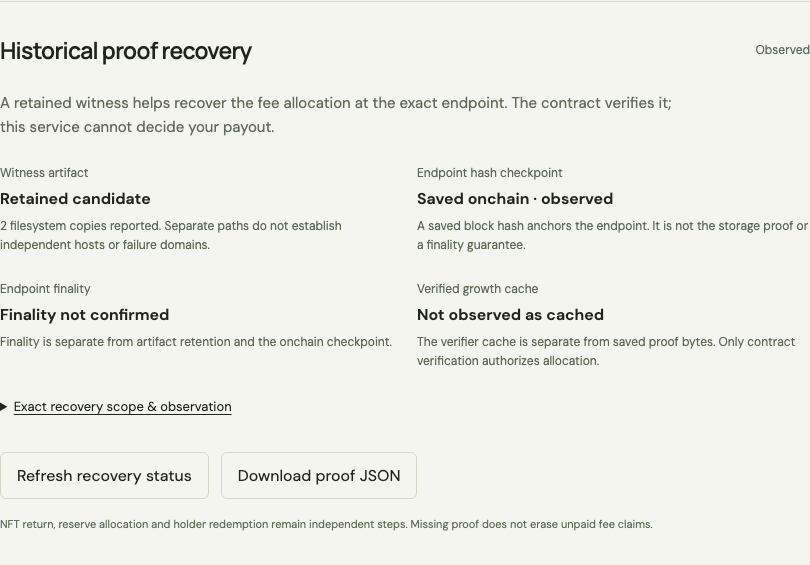
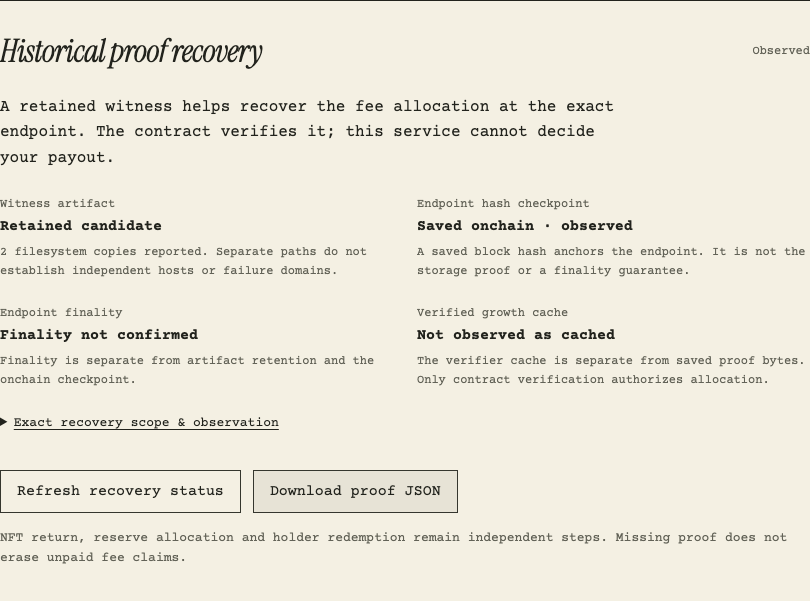
fix(web): retain sale receipts and verify usufruct workflows
Preserve confirmation receipts across cabinet navigation, migrate existing financial regressions, and record desktop/mobile review and both real-chain recovery variants.

diff --git a/apps/web/tests/flows.spec.ts b/apps/web/tests/flows.spec.ts
@@ -30,7 +30,7 @@ test("disconnected market explains original Q and exact earning endpoint; filter
     page.getByText("Deterministic fixtures", { exact: true }),
   ).toBeVisible();
   await expect(
-    page.getByText("Block 11,972,000", { exact: true }),
+    page.getByText("block 11,972,000", { exact: true }),
   ).toBeVisible();
   await expect(
     page.getByRole("link", { name: "Open WETH / USDC NFT 1482" }),
@@ -64,13 +64,13 @@ test("fractional purchase shows exact USDC review and carries unpaid period inco
   await expect(page.getByRole("status")).toContainText(
     "No transaction was broadcast",
   );
-  await page.getByRole("link", { name: "Your positions", exact: true }).click();
+  await page.getByRole("link", { name: "My cabinet", exact: true }).click();
   await expect(page.locator(".holding-row").first()).toContainText("250.1");
 });
 test("NFT approval does not activate; exact funded acceptance preserves retained rights", async ({
   page,
 }) => {
-  await page.goto("/#positions");
+  await page.goto("/#pin");
   await wallet(page);
   await page
     .getByRole("button", { name: "1. Approve this NFT", exact: true })
@@ -89,6 +89,8 @@ test("NFT approval does not activate; exact funded acceptance preserves retained
     "You cannot change bands",
   );
   await confirm(page, "Accept exact funded terms");
+  await expect(page).toHaveURL(/#positions$/);
+  await expect(page.getByRole("status")).toContainText("No transaction was broadcast");
   await expect(page.locator(".position-entry").first()).toContainText(
     "Held in escrow",
   );
@@ -97,7 +99,7 @@ test("NFT approval does not activate; exact funded acceptance preserves retained
 test("multiple funded offers remain individually recoverable and rejected cancellation preserves funds", async ({
   page,
 }) => {
-  await page.goto("/#positions");
+  await page.goto("/#pin");
   await wallet(page);
   await page
     .getByRole("button", { name: "Fund an offer", exact: true })
@@ -109,6 +111,7 @@ test("multiple funded offers remain individually recoverable and rejected cancel
       .click();
     await confirm(page, "Fund offer");
   }
+  await page.getByRole("link", { name: "My cabinet", exact: true }).click();
   await expect(page.locator(".funded-offer-row")).toHaveCount(2);
   await expect(
     page.getByRole("region", { name: "Your funded offers" }),
@@ -136,9 +139,11 @@ test("multiple funded offers remain individually recoverable and rejected cancel
   await expect(page.locator(".funded-offer-row")).toContainText(
     "$101.000000 USDC",
   );
+  await page.getByRole("link", { name: "Pin a tree", exact: true }).click();
   await expect(
     page.locator(".position-entry").first().locator(".funded-offer"),
   ).toContainText("$101.00");
+  await page.getByRole("link", { name: "My cabinet", exact: true }).click();
   await page.getByRole("button", { name: "Review cancellation" }).click();
   await confirm(page, "Cancel fixture offer");
   await expect(page.locator(".funded-offer-row")).toHaveCount(0);
@@ -171,7 +176,7 @@ test("late capture releases original NFT before allocation; claims redeem afterw
   await page
     .locator(".position-entry")
     .last()
-    .getByRole("link", { name: "View fee strip" })
+    .getByRole("link", { name: "View fee claim" })
     .click();
   await page
     .getByRole("button", { name: "Preview fixture allocation" })
@@ -210,7 +215,7 @@ test("rejected signature and transaction revert preserve balances and offer stat
     .click();
   await expect(page.getByRole("alert")).toContainText("Transaction reverted");
   await page.getByRole("button", { name: "Close transaction review" }).click();
-  await page.getByRole("link", { name: "Your positions", exact: true }).click();
+  await page.getByRole("link", { name: "My cabinet", exact: true }).click();
   await expect(page.locator(".holding-row").first()).toContainText("250");
 });
 test("wrong network has an explicit recovery action", async ({ page }) => {
@@ -256,7 +261,7 @@ for (const [state, message] of [
 test("indexer lag is visible and an empty position state explains eligibility", async ({
   page,
 }) => {
-  await page.goto("/#positions");
+  await page.goto("/#pin");
   await wallet(page);
   await condition(page, "indexer-lag");
   await expect(

diff --git a/apps/web/chain-tests/lifecycle.spec.ts b/apps/web/chain-tests/lifecycle.spec.ts
@@ -32,6 +32,7 @@ let deployment: Deployment;
 let recoveryDirectory: string, recoveryStore: RetentionStore, recoveryWorker: RetentionWorker, recoveryAPI: ReturnType<typeof recoveryServer>;
 const receipts: { action: string; hash: Hex }[] = [];
 const cacheOnly=process.env.USE_VERIFIED_GROWTH_CACHE === "true";
+const recoveryPort=Number(process.env.FEESTRIP_TEST_RECOVERY_PORT??8788);
 const rpcURL = process.env.LOCAL_RPC_URL ?? "http://127.0.0.1:8545";
 if (!["localhost", "127.0.0.1", "[::1]"].includes(new URL(rpcURL).hostname))
   throw new Error("Chain browser suite requires a loopback RPC.");
@@ -111,7 +112,7 @@ test.beforeAll(async () => {
   recoveryStore=new RetentionStore(resolve(recoveryDirectory,'keeper.sqlite'),{artifactRoots:[resolve(recoveryDirectory,'a'),resolve(recoveryDirectory,'b')]});
   recoveryWorker=new RetentionWorker(await localRetentionConfig(deployment,client),recoveryStore);
   recoveryAPI=recoveryServer({store:recoveryStore,scope:recoveryWorker.scope});
-  await new Promise<void>((resolve,reject)=>{recoveryAPI.once('error',reject);recoveryAPI.listen(8788,'127.0.0.1',resolve);});
+  await new Promise<void>((resolve,reject)=>{recoveryAPI.once('error',reject);recoveryAPI.listen(recoveryPort,'127.0.0.1',resolve);});
 });
 test.afterAll(async()=>{
   if(recoveryAPI?.listening)await new Promise<void>(resolve=>recoveryAPI.close(resolve));
@@ -123,7 +124,7 @@ test("real browser funding, exact NFT sale, Aqua maker publication, trade, late 
   page,
 }, testInfo) => {
   const { seller, buyer, holder } = deployment.actors!;
-  await login(page, "buyer");
+  await login(page, "buyer", "pin");
   await expect(page.locator(".position-entry")).toContainText(
     "Offer target · other wallet",
   );
@@ -142,7 +143,7 @@ test("real browser funding, exact NFT sale, Aqua maker publication, trade, late 
   expect(await balance(deployment.usdc, buyer)).toBe(
     buyerCashBefore - 101000000n,
   );
-  await login(page, "seller");
+  await login(page, "seller", "pin");
   await expect(page.locator(".funded-offer-row")).toHaveCount(0);
   await page
     .getByRole("button", { name: "1. Approve this NFT", exact: true })
@@ -223,7 +224,7 @@ test("real browser funding, exact NFT sale, Aqua maker publication, trade, late 
   expect(retained.state).toBe("retained");expect(retained.copies).toBe(2);
   // The browser must use the real recovery service; the legacy static fallback is absent.
   unlinkSync(resolve(repo,"apps/web/public/witness-1.json"));
-  const recoveredResponse=await fetch(`http://127.0.0.1:8788/api/recovery/artifact?seriesId=1&digest=${retained.artifactDigest}`);
+  const recoveredResponse=await fetch(`http://127.0.0.1:${recoveryPort}/api/recovery/artifact?seriesId=1&digest=${retained.artifactDigest}`);
   expect(recoveredResponse.ok).toBe(true);expect(digest(await recoveredResponse.text())).toBe(retained.artifactDigest);
   await page
     .getByRole("button", { name: "Refresh chain state", exact: true })
@@ -315,7 +316,7 @@ test("real browser funding, exact NFT sale, Aqua maker publication, trade, late 
     paid += payout;
     expect(await balance(activated.claim, address)).toBe(0n);
   }
-  await page.getByRole("link", { name: "Your positions", exact: true }).click();
+  await page.getByRole("link", { name: "My cabinet", exact: true }).click();
   const residualBefore = await balance(deployment.usdc, seller);
   await page
     .getByRole("button", { name: "Withdraw residual fees", exact: true })

diff --git a/apps/web/tests/orchard.spec.ts b/apps/web/tests/orchard.spec.ts
@@ -1,0 +1,33 @@
+import { test, expect } from "@playwright/test";
+import { fruitMarkState } from "../src/components/Orchard";
+import { initialFixture } from "../src/fixtureAdapter";
+
+test("fractional inventory remains visible below one basis point of original Q", () => {
+  const Q = BigInt(initialFixture().markets[0].originalSupply);
+  for (const quantity of [500000000000000000n, 1n]) {
+    expect(fruitMarkState(quantity, Q, 0)).toBe("partial");
+    for (let index = 1; index < 10; index++)
+      expect(fruitMarkState(quantity, Q, index)).toBe("empty");
+  }
+  expect(fruitMarkState(0n, Q, 0)).toBe("empty");
+  expect(fruitMarkState(Q / 10n, Q, 0)).toBe("full");
+  expect(fruitMarkState(Q / 10n, Q, 1)).toBe("empty");
+});
+
+test("mobile orchard navigation reaches seller and holder tasks with legible type", async ({ page }) => {
+  await page.setViewportSize({ width: 390, height: 844 });
+  await page.goto("/");
+  await expect(page).toHaveTitle(/usufruct/);
+  for (const [link, heading] of [
+    ["Orchard", "The orchard"],
+    ["Pin a tree", "Pin a tree"],
+    ["My cabinet", "My cabinet"],
+  ]) {
+    await page.getByRole("link", { name: link, exact: true }).click();
+    await expect(page.getByRole("heading", { name: heading, exact: true, level: 1 })).toBeVisible();
+    expect(await page.evaluate(() => document.documentElement.scrollWidth <= window.innerWidth)).toBe(true);
+  }
+  await page.evaluate(() => document.fonts.ready);
+  expect(await page.evaluate(() => document.fonts.check('italic 64px "Instrument Serif"'))).toBe(true);
+  expect(await page.evaluate(() => document.fonts.check('16px "Courier Prime"'))).toBe(true);
+});

diff --git a/apps/web/playwright.chain.config.ts b/apps/web/playwright.chain.config.ts
@@ -1,4 +1,10 @@
 import { defineConfig } from "@playwright/test";
+const webPort = Number(process.env.FEESTRIP_TEST_WEB_PORT ?? 4175);
+const recoveryPort = Number(process.env.FEESTRIP_TEST_RECOVERY_PORT ?? 8788);
+for (const port of [webPort, recoveryPort]) {
+  if (!Number.isInteger(port) || port < 1024 || port > 65535)
+    throw new Error("Browser test ports must be integers between 1024 and 65535.");
+}
 export default defineConfig({
   testDir: "./chain-tests",
   outputDir: "./test-results/chain",
@@ -9,7 +15,7 @@ export default defineConfig({
   timeout: 180000,
   reporter: [["list"]],
   use: {
-    baseURL: "http://127.0.0.1:4175",
+    baseURL: `http://127.0.0.1:${webPort}`,
     browserName: "chromium",
     viewport: { width: 1440, height: 1100 },
     trace: "retain-on-failure",
@@ -17,9 +23,12 @@ export default defineConfig({
   },
   webServer: {
     command:
-      "node ../../node_modules/vite/bin/vite.js --host 127.0.0.1 --port 4175",
-    url: "http://127.0.0.1:4175",
+      `node ../../node_modules/vite/bin/vite.js --host 127.0.0.1 --port ${webPort} --strictPort`,
+    url: `http://127.0.0.1:${webPort}`,
     reuseExistingServer: !process.env.CI,
-    env: { VITE_DATA_MODE: "local", VITE_ENABLE_TEST_WALLET: "true" },
+    env: {
+      VITE_DATA_MODE: "local", VITE_ENABLE_TEST_WALLET: "true",
+      FEESTRIP_RECOVERY_ORIGIN: `http://127.0.0.1:${recoveryPort}`,
+    },
   },
 });

diff --git a/apps/web/tests/entitlement.spec.ts b/apps/web/tests/entitlement.spec.ts
@@ -59,7 +59,7 @@ test("matured rights survive capture and NFT return; allocation uses original Q 
   });
   await expect(receipt).toContainText("Period ended · capture pending");
   await expect(receipt).toContainText("your unpaid claim remains valid");
-  await page.getByRole("link", { name: "Your positions", exact: true }).click();
+  await page.getByRole("link", { name: "My cabinet", exact: true }).click();
   await page
     .getByRole("button", { name: "Capture actual fees", exact: true })
     .click();
@@ -71,7 +71,7 @@ test("matured rights survive capture and NFT return; allocation uses original Q 
   await page
     .locator(".holding-row")
     .filter({ hasText: "NFT #1484" })
-    .getByRole("link", { name: "View claim" })
+    .getByRole("link", { name: "Read claim & recovery" })
     .click();
   await expect(receipt).toContainText("Proof allocation pending");
   await expect(receipt).toContainText(

diff --git a/apps/web/tests/quotes.spec.ts b/apps/web/tests/quotes.spec.ts
@@ -81,11 +81,12 @@ test("unavailable bid has no enabled sell action or promised proceeds", async ({
     .getByRole("button", { name: "Use fixture wallet", exact: true })
     .first()
     .click();
-  const sale = page.locator(".sell-to-bid").first();
+  const sale = page.locator(".no-bid-note").first();
   await expect(sale).toContainText("No executable bid");
+  await expect(sale).toContainText("Resale liquidity is not guaranteed");
   await expect(
-    sale.getByRole("button", { name: "Review claim sale" }),
-  ).toBeDisabled();
+    page.getByRole("button", { name: "Review claim sale" }),
+  ).toHaveCount(0);
 });
 test("integer capacity equals exhaustive exact-input execution at small rounding boundaries", () => {
   for (let claims = 1n; claims <= 17n; claims++)

diff --git a/apps/web/src/App.tsx b/apps/web/src/App.tsx
@@ -322,7 +322,13 @@ export function App({ adapter }: { adapter: FeeStripAdapter }) {
       const result = await adapter.execute(review.action);
       await refresh();
       setReview(null);
-      if (review.action.type === "acceptOffer") location.hash = "positions";
+      if (review.action.type === "acceptOffer") {
+        // Keep the confirmed receipt visible when opening the new holding.
+        // A hashchange would clear it as part of ordinary navigation.
+        history.pushState(null, "", "#positions");
+        setRoute("positions");
+        window.scrollTo(0, 0);
+      }
       setMessage(
         result.transactionHash
           ? `${result.description} Transaction: ${result.transactionHash}`

diff --git a/apps/web/tests/recovery.spec.ts b/apps/web/tests/recovery.spec.ts
@@ -149,7 +149,7 @@ test("unavailable recovery never promises proof or a download; fixture receipt h
   await page.getByText("Receipt source & download", { exact: true }).click();
   await expect(
     page.getByText(
-      "FeeStrip contract: Simulated fixture · no deployed contract",
+      "Escrow contract: Simulated fixture · no deployed contract",
     ),
   ).toBeVisible();
   await mount(page, { error: "RECOVERY_UNAVAILABLE" }, json, 503);

diff --git a/apps/web/vite.config.ts b/apps/web/vite.config.ts
@@ -4,6 +4,6 @@ export default defineConfig({
   plugins: [react()],
   server: {
     port: 4174, host: "127.0.0.1", fs: { allow: ["../.."] },
-    proxy: { "/api/analysis": "http://127.0.0.1:8787", "/api/recovery": "http://127.0.0.1:8788" },
+    proxy: { "/api/analysis": "http://127.0.0.1:8787", "/api/recovery": process.env.FEESTRIP_RECOVERY_ORIGIN ?? "http://127.0.0.1:8788" },
   },
 });

diff --git a/apps/web/src/styles.css b/apps/web/src/styles.css
@@ -1,4 +1,3 @@
-@import "./fonts.css";
 :root {
   --ink: #22231d;
   --muted: #626257;

diff --git a/docs/development.md b/docs/development.md
@@ -34,7 +34,7 @@ Install the independent witness validator first (see [retention setup](../packag
 
 For the independent transaction-level regression, start with `pnpm local:reset` and run `pnpm test:chain`. It compares settlement against a native collection branch at the identical N snapshot, then checks actual payouts, residual assets and dust. It also runs the retention worker at N, restarts without replacement proof access, repairs a corrupted copy, and revalidates the API witness before Solidity settlement. It consumes the seeded offer, so reset before another run. Run `pnpm test:browser:chain` for the saved browser lifecycle; it resets the dedicated node itself. Its receipts and screenshots are distinct from fixture tests.
 
-To isolate browser transactions from a running8545 development node, start another Anvil on8546 and run `LOCAL_RPC_URL=http://127.0.0.1:8546 pnpm test:browser:chain`. It still writes this checkout's generated deployment/witness files; use a separate checkout if another app needs those files unchanged. Browser artifacts are separated under `apps/web/test-results/fixtures` and `apps/web/test-results/chain`. The transaction suite now also cancels the buyer's expired, unaccepted seed offer and verifies its exact refund without changing settled reserves. Buyers can do this through **Your positions → Your funded offers → Review cancellation**; expiry alone does not refund capital.
+To isolate browser transactions from a running8545 development node, start another Anvil on8546 and run `LOCAL_RPC_URL=http://127.0.0.1:8546 pnpm test:browser:chain`. It still writes this checkout's generated deployment/witness files; use a separate checkout if another app needs those files unchanged. Browser artifacts are separated under `apps/web/test-results/fixtures` and `apps/web/test-results/chain`. The transaction suite now also cancels the buyer's expired, unaccepted seed offer and verifies its exact refund without changing settled reserves. Buyers can do this through **My cabinet → Your funded offers → Review cancellation**; expiry alone does not refund capital.
 
 ## Independent checks
 
@@ -75,4 +75,8 @@ The private retention helper pins Sepolia genesis to [go-ethereum's chain config
 
 After seeding, run `pnpm local:retention-config`, then `RETENTION_CONFIG="$PWD/.scratch/retention/local/local.generated.json" pnpm dev:recovery` in another terminal with `FEESTRIP_PROOF_PYTHON` set. Start before N. The read-only worker discovers active series and retains exact endpoint proofs; it never mines, checkpoints or settles for you. Vite proxies `/api/recovery` to its loopback8788 API. Restart the same command to reuse the retained database and two filesystem copies. See [retention operations and limitations](../packages/settlement/README.md).
 
-The saved browser lifecycle runs a real recovery API on dedicated loopback8788, deletes the static witness fallback, downloads the retained artifact through the app and settles from that API. Its Python validator dependency is required. Run `USE_VERIFIED_GROWTH_CACHE=true pnpm test:browser:chain` for the separate cache-recovery variant: it authenticates growth onchain, removes every retained proof copy and verifies allocation through the app from the exact cached tuple. Each variant resets its dedicated local chain. Keep8788 free for this test server.
+The saved browser lifecycle runs a real recovery API on dedicated loopback8788, deletes the static witness fallback, downloads the retained artifact through the app and settles from that API. Its Python validator dependency is required. Run `USE_VERIFIED_GROWTH_CACHE=true pnpm test:browser:chain` for the separate cache-recovery variant: it authenticates growth onchain, removes every retained proof copy and verifies allocation through the app from the exact cached tuple. Each variant resets its dedicated local chain. By default this test server uses8788. To leave a public preview and retention worker running, set `FEESTRIP_TEST_WEB_PORT=4193 FEESTRIP_TEST_RECOVERY_PORT=8793` alongside a dedicated `LOCAL_RPC_URL`; the test browser and Vite recovery proxy use those isolated ports.
+
+## usufruct design preview
+
+The application has three views: **Orchard** for discovery, **Pin a tree** for funded offers and NFT activation, and **My cabinet** for claims, NFT recovery and offer refunds. The fixed-window economic requirements remain unchanged. `pnpm dev` opens the explicitly labeled fixture preview; its sample values and transactions are simulated. The public testnet build requires `VITE_DATA_MODE=testnet pnpm build` and the correct deployment manifest. See [DESIGN.md](../DESIGN.md) for the identity, [implementation review](design/usufruct-implementation.md) for the interface, and `/brand/index.html` on either preview for the typography, palette and downloadable SVG marks.

diff --git a/docs/STATUS.md b/docs/STATUS.md
@@ -9,7 +9,7 @@ Current direction: the user renamed the product **usufruct**, supplied two orcha
 | Baseline / capability check | Lead | verified | GitHub write authentication; Node 24.12.0, pnpm 12.3.4, Foundry 1.5.1, Slither 0.11.5; baseline packet check |
 | Contract lifecycle and accounting | Protocol specialist | local lifecycle verified | Native canonical collection + funded custody + independent real-proof lifecycle; dynamic4-NFT lifecycle and custody bypasses verified |
 | Historical endpoint | Proof specialist | component verified | Genuine Sepolia witness + fork BLOCKHASH + native collection match; full local real-proof lifecycle verified; controlled public lifecycle pending; tip-only public proof retention |
-| Visual exploration / application | Frontend specialist / lead | local verified | Three rendered concepts;33fixture/safety/receipt/quote/recovery tests; actual browser lifecycle now includes exact100USDC expired-offer refund without touching series reserves |
+| usufruct identity / application | Frontend specialist / lead | integrated and locally verified | User-directed orchard identity; 38 UI regressions; desktop/mobile review; both real-chain browser recovery variants; public-data preview |
 | Aqua/SwapVM | Lead | local verified | Actual escrow-issued FeeClaim/USDC transfer;11 market tests; callback finding fixed and independently reviewed |
 | Graph composition | Lead | live blocked / hermetic verified | 17math/sink/join tests;5Rust+12WASM/sink tests; Subgraph build passes; live CLI Unauthenticated |
 | Independent economic / browser review | Separate reviewers / lead | increment reviewed | Callback correction verified by second reviewer; actual rendered/browser financial-label fixes; integration-review.md |
@@ -41,4 +41,4 @@ Public setup preparation: the bounded canonical mint and six-contract deployment
 
 Public checkpoint: all12 setup transactions confirmed; [manifest](../deployments/sepolia.json), [deployment evidence](evidence/sepolia-deployment.json), [independent NFT/balance readback](evidence/sepolia-position-readback.json). A separate specialist verified all6 runtime hashes and15 immutable bindings through PublicNode. NFT39216 remains in the original wallet with fixed minted liquidity; no offer or sale was activated. The public-data production preview at http://127.0.0.1:4187 passes disconnected desktop/mobile checks and rejects test-wallet injection. Recovery service8788 observes the public deployment with0series; it does not sign checkpoints. Private config stays under ignored .scratch. [Browser scope](evidence/sepolia-browser-smoke.json). The full hosted suite passed implementation fdf8e40: [run34642650161](https://github.com/MihRazvan/eth-online-2026/actions/runs/34642650161). The subsequent empty-market wording and private-config helper pass local validation; public participant/endpoint-proof and live Graph gates remain open.
 
-Branding increment in progress: lead owns self-hosted Instrument Serif/Courier Prime fonts, licensed asset provenance, vector wordmark/fruit mark, identity folio and integration. Frontend specialist owns the three-route Orchard / Pin a tree / My cabinet implementation in an isolated worktree. A separate economic reviewer mapped the metaphors to existing fixed-window rights; no monthly claims or unilateral refund are introduced. The identity folio is verified at desktop/mobile widths; application verification follows integration.
+Branding increment verified: **usufruct** now has the requested paper/orchard identity, licensed self-hosted Instrument Serif and Courier Prime, reusable SVG marks, a brand folio, and separate Orchard / Pin a tree / My cabinet workflows. Independent economic and rendered reviews informed the implementation; root fixed post-acceptance navigation hiding the confirmation receipt. All 38 UI regressions and both actual local-chain browser variants pass, including retained proof recovery and verified-cache recovery. Original-Q payouts, capture/NFT-return ordering and the exact expired-offer refund remain unchanged. TypeScript and the testnet production build pass. The public-data preview at http://127.0.0.1:4187 and explicit fixture design preview at http://127.0.0.1:4192 serve the new identity; `/brand/index.html` contains the identity folio. [Design and evidence](design/usufruct-implementation.md). Public participant-wallet acceptance and live Graph integration remain pending; no public transaction was made for this design increment.
